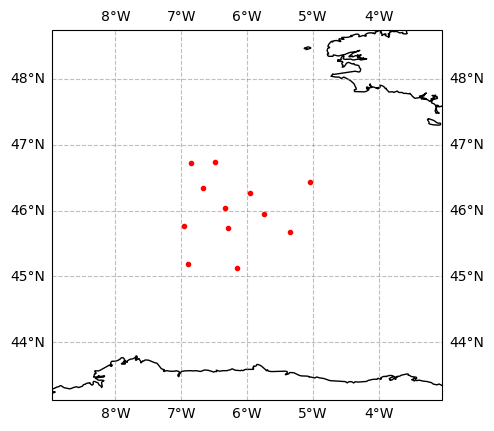
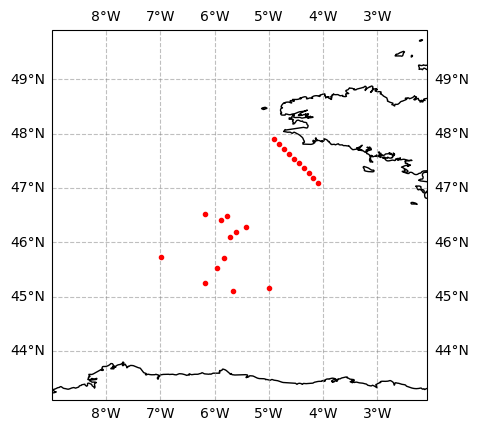
docs

diff --git a/docs/usage/preparation.rst b/docs/usage/preparation.rst
@@ -43,7 +43,7 @@ Example:
    my_plan = {'lat': lat, 'lon': lon, 'time': tim}
 
 VirtualFleet provides a convenient utility class :class:`DeploymentPlan` to make things easier. It allows to create a deployment plan from a section or a region and a number of floats.
-The :meth:`from_region` method offers the possibility to deploy floats either randomly (method='random') or on a grid (method='grid') in the given region.
+The :meth:`from_region` method offers the possibility to deploy floats either randomly (method='random') or on a grid (method='grid') in the given region. The :meth:`add` method allows to add a new deployment to an existing plan, to combine multiple deployments in a single plan.
 
 Example :
 
@@ -53,11 +53,11 @@ Example :
 
    d1 = DeploymentPlan()
    d1.from_section([-5,48],[-4,47],'2016-01-01',2.0)
-   my_plan = d1.plan
 
    d2 = DeploymentPlan()
    d2.from_region([-7,-5,45,47],'2016-01-01',2.0,'random',N=12)
-   my_plan = d2.plan
+   d2.add(d1.plan)
+   d2.plot()
 
 .. image:: ../_static/random_deployment.png
 
